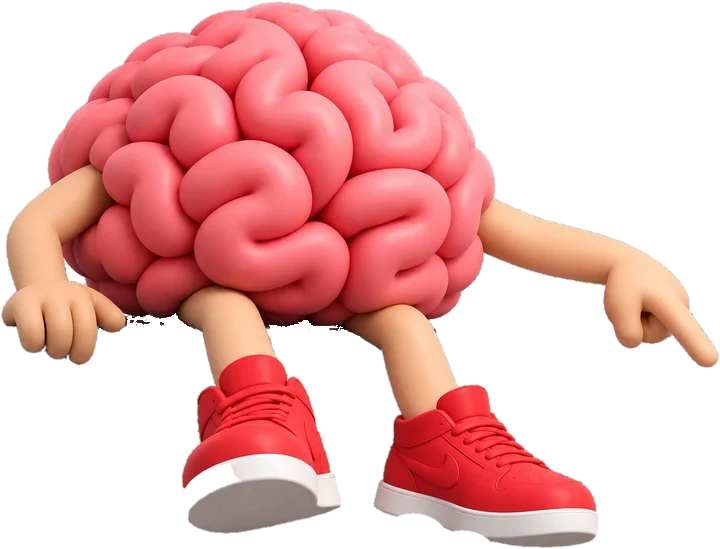
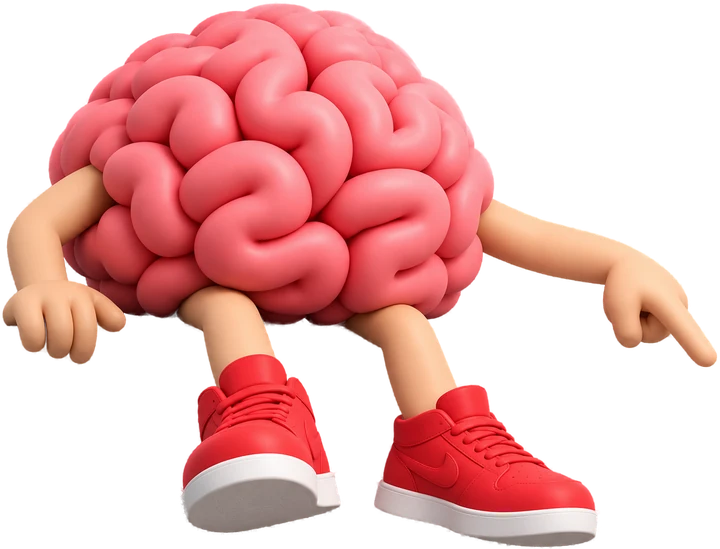
Clean AI-matted cutout of the brain mascot
Claude-Session: https://claude.ai/code/session_011twCvYJ4NH4k7nHz3phw9g

diff --git a/dist/index.html b/dist/index.html
@@ -21,7 +21,7 @@
   --gutter-r:max(16px,env(safe-area-inset-right,0px));
   color-scheme:light;
   --img-roborab-en:url(/assets/roborab-en.webp?v=687077af);
-  --img-brain:url(/assets/brain.webp?v=22f2d81e);
+  --img-brain:url(/assets/brain.webp?v=ea176af6);
   --img-c-fit:url(/assets/c-fit.webp?v=dc3616af);
   --img-c-tax:url(/assets/c-tax.webp?v=917ba79e);
   --img-c-build:url(/assets/c-build.webp?v=ac599c71);
@@ -307,7 +307,7 @@ html:not([lang=ru]) .word{aspect-ratio:1001 / 512;background-image:var(--img-rob
 
 /* ---------- контакт ---------- */
 .contact{--bw:clamp(190px,25vw,380px);position:relative;margin-top:calc(var(--S) + var(--bw) * .42);background:var(--fg);color:#fff;padding-block:calc(var(--bw) * .5 + 24px) clamp(40px,6vw,88px)}
-.brainsit{position:absolute;top:0;left:max(var(--m),6vw);width:var(--bw);aspect-ratio:720 / 549;background:var(--img-brain) center / 100% 100% no-repeat;transform:translateY(-55%);pointer-events:none;z-index:2}
+.brainsit{position:absolute;top:0;left:max(var(--m),6vw);width:var(--bw);aspect-ratio:720 / 549;background:var(--img-brain) center / 100% 100% no-repeat;transform:translateY(-60%);pointer-events:none;z-index:2}
 @media(max-width:860px){.contact{--bw:clamp(170px,48vw,300px)}.brainsit{left:max(var(--m),5vw)}}
 .contact .wrap{padding-left:max(var(--m),env(safe-area-inset-left,0px));padding-right:max(var(--m),env(safe-area-inset-right,0px))}
 .contact h2{margin:0;font:800 clamp(28px,4vw,56px)/1.05 var(--f-display);letter-spacing:-.04em;max-width:14ch}
@@ -350,12 +350,12 @@ textarea{min-height:96px;resize:vertical}
   <div class="herolang" id="herolang"></div>
   <!-- ЭКРАН 0: баннер. Отступы равны: край экрана до Р = Б до дивана = диван до края экрана -->
   <section class="hero wrap">
-    <h1 class="h1w"><span class="ht ht2" data-fit="" data-i18n="top" style=""><span class="d"><span class="ml">Implementing</span> <span class="ml">artificial</span></span><br><span class="ml">intelligence</span></span>
-    <span class="banner" style="">
+    <h1 class="h1w"><span class="ht ht2" data-fit="" data-i18n="top" style="font-size: 104.889px; line-height: 143.775px;"><span class="d"><span class="ml">Implementing</span> <span class="ml">artificial</span></span><br><span class="ml">intelligence</span></span>
+    <span class="banner" style="margin-top: 61.7393px;">
       <span class="word" role="img" aria-label="ROBORAB"></span>
       <span class="sofa" aria-hidden="true"></span>
     </span>
-    <span class="ht" data-fit="" data-i18n="bot" style=""><span class="d"><span class="ml">into business&nbsp;</span><span class="ml pr">processes</span></span></span></h1>
+    <span class="ht" data-fit="" data-i18n="bot" style="font-size: 102.787px; margin-top: 63.8105px;"><span class="d"><span class="ml">into business&nbsp;</span><span class="ml pr">processes</span></span></span></h1>
     <a class="down" href="#paths" aria-label="How we implement it, scroll down"><span>How we implement it</span><svg viewBox="0 0 24 24"><path d="m6 9 6 6 6-6"></path></svg></a>
   </section>
 

diff --git a/dist/af/index.html b/dist/af/index.html
@@ -21,7 +21,7 @@
   --gutter-r:max(16px,env(safe-area-inset-right,0px));
   color-scheme:light;
   --img-roborab-en:url(/assets/roborab-en.webp?v=687077af);
-  --img-brain:url(/assets/brain.webp?v=22f2d81e);
+  --img-brain:url(/assets/brain.webp?v=ea176af6);
   --img-c-fit:url(/assets/c-fit.webp?v=dc3616af);
   --img-c-tax:url(/assets/c-tax.webp?v=917ba79e);
   --img-c-build:url(/assets/c-build.webp?v=ac599c71);
@@ -307,7 +307,7 @@ html:not([lang=ru]) .word{aspect-ratio:1001 / 512;background-image:var(--img-rob
 
 /* ---------- контакт ---------- */
 .contact{--bw:clamp(190px,25vw,380px);position:relative;margin-top:calc(var(--S) + var(--bw) * .42);background:var(--fg);color:#fff;padding-block:calc(var(--bw) * .5 + 24px) clamp(40px,6vw,88px)}
-.brainsit{position:absolute;top:0;left:max(var(--m),6vw);width:var(--bw);aspect-ratio:720 / 549;background:var(--img-brain) center / 100% 100% no-repeat;transform:translateY(-55%);pointer-events:none;z-index:2}
+.brainsit{position:absolute;top:0;left:max(var(--m),6vw);width:var(--bw);aspect-ratio:720 / 549;background:var(--img-brain) center / 100% 100% no-repeat;transform:translateY(-60%);pointer-events:none;z-index:2}
 @media(max-width:860px){.contact{--bw:clamp(170px,48vw,300px)}.brainsit{left:max(var(--m),5vw)}}
 .contact .wrap{padding-left:max(var(--m),env(safe-area-inset-left,0px));padding-right:max(var(--m),env(safe-area-inset-right,0px))}
 .contact h2{margin:0;font:800 clamp(28px,4vw,56px)/1.05 var(--f-display);letter-spacing:-.04em;max-width:14ch}

diff --git a/dist/ar/index.html b/dist/ar/index.html
@@ -21,7 +21,7 @@
   --gutter-r:max(16px,env(safe-area-inset-right,0px));
   color-scheme:light;
   --img-roborab-en:url(/assets/roborab-en.webp?v=687077af);
-  --img-brain:url(/assets/brain.webp?v=22f2d81e);
+  --img-brain:url(/assets/brain.webp?v=ea176af6);
   --img-c-fit:url(/assets/c-fit.webp?v=dc3616af);
   --img-c-tax:url(/assets/c-tax.webp?v=917ba79e);
   --img-c-build:url(/assets/c-build.webp?v=ac599c71);
@@ -307,7 +307,7 @@ html:not([lang=ru]) .word{aspect-ratio:1001 / 512;background-image:var(--img-rob
 
 /* ---------- контакт ---------- */
 .contact{--bw:clamp(190px,25vw,380px);position:relative;margin-top:calc(var(--S) + var(--bw) * .42);background:var(--fg);color:#fff;padding-block:calc(var(--bw) * .5 + 24px) clamp(40px,6vw,88px)}
-.brainsit{position:absolute;top:0;left:max(var(--m),6vw);width:var(--bw);aspect-ratio:720 / 549;background:var(--img-brain) center / 100% 100% no-repeat;transform:translateY(-55%);pointer-events:none;z-index:2}
+.brainsit{position:absolute;top:0;left:max(var(--m),6vw);width:var(--bw);aspect-ratio:720 / 549;background:var(--img-brain) center / 100% 100% no-repeat;transform:translateY(-60%);pointer-events:none;z-index:2}
 @media(max-width:860px){.contact{--bw:clamp(170px,48vw,300px)}.brainsit{left:max(var(--m),5vw)}}
 .contact .wrap{padding-left:max(var(--m),env(safe-area-inset-left,0px));padding-right:max(var(--m),env(safe-area-inset-right,0px))}
 .contact h2{margin:0;font:800 clamp(28px,4vw,56px)/1.05 var(--f-display);letter-spacing:-.04em;max-width:14ch}

diff --git a/dist/az/index.html b/dist/az/index.html
@@ -21,7 +21,7 @@
   --gutter-r:max(16px,env(safe-area-inset-right,0px));
   color-scheme:light;
   --img-roborab-en:url(/assets/roborab-en.webp?v=687077af);
-  --img-brain:url(/assets/brain.webp?v=22f2d81e);
+  --img-brain:url(/assets/brain.webp?v=ea176af6);
   --img-c-fit:url(/assets/c-fit.webp?v=dc3616af);
   --img-c-tax:url(/assets/c-tax.webp?v=917ba79e);
   --img-c-build:url(/assets/c-build.webp?v=ac599c71);
@@ -307,7 +307,7 @@ html:not([lang=ru]) .word{aspect-ratio:1001 / 512;background-image:var(--img-rob
 
 /* ---------- контакт ---------- */
 .contact{--bw:clamp(190px,25vw,380px);position:relative;margin-top:calc(var(--S) + var(--bw) * .42);background:var(--fg);color:#fff;padding-block:calc(var(--bw) * .5 + 24px) clamp(40px,6vw,88px)}
-.brainsit{position:absolute;top:0;left:max(var(--m),6vw);width:var(--bw);aspect-ratio:720 / 549;background:var(--img-brain) center / 100% 100% no-repeat;transform:translateY(-55%);pointer-events:none;z-index:2}
+.brainsit{position:absolute;top:0;left:max(var(--m),6vw);width:var(--bw);aspect-ratio:720 / 549;background:var(--img-brain) center / 100% 100% no-repeat;transform:translateY(-60%);pointer-events:none;z-index:2}
 @media(max-width:860px){.contact{--bw:clamp(170px,48vw,300px)}.brainsit{left:max(var(--m),5vw)}}
 .contact .wrap{padding-left:max(var(--m),env(safe-area-inset-left,0px));padding-right:max(var(--m),env(safe-area-inset-right,0px))}
 .contact h2{margin:0;font:800 clamp(28px,4vw,56px)/1.05 var(--f-display);letter-spacing:-.04em;max-width:14ch}

diff --git a/dist/be/index.html b/dist/be/index.html
@@ -21,7 +21,7 @@
   --gutter-r:max(16px,env(safe-area-inset-right,0px));
   color-scheme:light;
   --img-roborab-en:url(/assets/roborab-en.webp?v=687077af);
-  --img-brain:url(/assets/brain.webp?v=22f2d81e);
+  --img-brain:url(/assets/brain.webp?v=ea176af6);
   --img-c-fit:url(/assets/c-fit.webp?v=dc3616af);
   --img-c-tax:url(/assets/c-tax.webp?v=917ba79e);
   --img-c-build:url(/assets/c-build.webp?v=ac599c71);
@@ -307,7 +307,7 @@ html:not([lang=ru]) .word{aspect-ratio:1001 / 512;background-image:var(--img-rob
 
 /* ---------- контакт ---------- */
 .contact{--bw:clamp(190px,25vw,380px);position:relative;margin-top:calc(var(--S) + var(--bw) * .42);background:var(--fg);color:#fff;padding-block:calc(var(--bw) * .5 + 24px) clamp(40px,6vw,88px)}
-.brainsit{position:absolute;top:0;left:max(var(--m),6vw);width:var(--bw);aspect-ratio:720 / 549;background:var(--img-brain) center / 100% 100% no-repeat;transform:translateY(-55%);pointer-events:none;z-index:2}
+.brainsit{position:absolute;top:0;left:max(var(--m),6vw);width:var(--bw);aspect-ratio:720 / 549;background:var(--img-brain) center / 100% 100% no-repeat;transform:translateY(-60%);pointer-events:none;z-index:2}
 @media(max-width:860px){.contact{--bw:clamp(170px,48vw,300px)}.brainsit{left:max(var(--m),5vw)}}
 .contact .wrap{padding-left:max(var(--m),env(safe-area-inset-left,0px));padding-right:max(var(--m),env(safe-area-inset-right,0px))}
 .contact h2{margin:0;font:800 clamp(28px,4vw,56px)/1.05 var(--f-display);letter-spacing:-.04em;max-width:14ch}

diff --git a/dist/bg/index.html b/dist/bg/index.html
@@ -21,7 +21,7 @@
   --gutter-r:max(16px,env(safe-area-inset-right,0px));
   color-scheme:light;
   --img-roborab-en:url(/assets/roborab-en.webp?v=687077af);
-  --img-brain:url(/assets/brain.webp?v=22f2d81e);
+  --img-brain:url(/assets/brain.webp?v=ea176af6);
   --img-c-fit:url(/assets/c-fit.webp?v=dc3616af);
   --img-c-tax:url(/assets/c-tax.webp?v=917ba79e);
   --img-c-build:url(/assets/c-build.webp?v=ac599c71);
@@ -307,7 +307,7 @@ html:not([lang=ru]) .word{aspect-ratio:1001 / 512;background-image:var(--img-rob
 
 /* ---------- контакт ---------- */
 .contact{--bw:clamp(190px,25vw,380px);position:relative;margin-top:calc(var(--S) + var(--bw) * .42);background:var(--fg);color:#fff;padding-block:calc(var(--bw) * .5 + 24px) clamp(40px,6vw,88px)}
-.brainsit{position:absolute;top:0;left:max(var(--m),6vw);width:var(--bw);aspect-ratio:720 / 549;background:var(--img-brain) center / 100% 100% no-repeat;transform:translateY(-55%);pointer-events:none;z-index:2}
+.brainsit{position:absolute;top:0;left:max(var(--m),6vw);width:var(--bw);aspect-ratio:720 / 549;background:var(--img-brain) center / 100% 100% no-repeat;transform:translateY(-60%);pointer-events:none;z-index:2}
 @media(max-width:860px){.contact{--bw:clamp(170px,48vw,300px)}.brainsit{left:max(var(--m),5vw)}}
 .contact .wrap{padding-left:max(var(--m),env(safe-area-inset-left,0px));padding-right:max(var(--m),env(safe-area-inset-right,0px))}
 .contact h2{margin:0;font:800 clamp(28px,4vw,56px)/1.05 var(--f-display);letter-spacing:-.04em;max-width:14ch}

diff --git a/dist/bn/index.html b/dist/bn/index.html
@@ -21,7 +21,7 @@
   --gutter-r:max(16px,env(safe-area-inset-right,0px));
   color-scheme:light;
   --img-roborab-en:url(/assets/roborab-en.webp?v=687077af);
-  --img-brain:url(/assets/brain.webp?v=22f2d81e);
+  --img-brain:url(/assets/brain.webp?v=ea176af6);
   --img-c-fit:url(/assets/c-fit.webp?v=dc3616af);
   --img-c-tax:url(/assets/c-tax.webp?v=917ba79e);
   --img-c-build:url(/assets/c-build.webp?v=ac599c71);
@@ -307,7 +307,7 @@ html:not([lang=ru]) .word{aspect-ratio:1001 / 512;background-image:var(--img-rob
 
 /* ---------- контакт ---------- */
 .contact{--bw:clamp(190px,25vw,380px);position:relative;margin-top:calc(var(--S) + var(--bw) * .42);background:var(--fg);color:#fff;padding-block:calc(var(--bw) * .5 + 24px) clamp(40px,6vw,88px)}
-.brainsit{position:absolute;top:0;left:max(var(--m),6vw);width:var(--bw);aspect-ratio:720 / 549;background:var(--img-brain) center / 100% 100% no-repeat;transform:translateY(-55%);pointer-events:none;z-index:2}
+.brainsit{position:absolute;top:0;left:max(var(--m),6vw);width:var(--bw);aspect-ratio:720 / 549;background:var(--img-brain) center / 100% 100% no-repeat;transform:translateY(-60%);pointer-events:none;z-index:2}
 @media(max-width:860px){.contact{--bw:clamp(170px,48vw,300px)}.brainsit{left:max(var(--m),5vw)}}
 .contact .wrap{padding-left:max(var(--m),env(safe-area-inset-left,0px));padding-right:max(var(--m),env(safe-area-inset-right,0px))}
 .contact h2{margin:0;font:800 clamp(28px,4vw,56px)/1.05 var(--f-display);letter-spacing:-.04em;max-width:14ch}

diff --git a/dist/ca/index.html b/dist/ca/index.html
@@ -21,7 +21,7 @@
   --gutter-r:max(16px,env(safe-area-inset-right,0px));
   color-scheme:light;
   --img-roborab-en:url(/assets/roborab-en.webp?v=687077af);
-  --img-brain:url(/assets/brain.webp?v=22f2d81e);
+  --img-brain:url(/assets/brain.webp?v=ea176af6);
   --img-c-fit:url(/assets/c-fit.webp?v=dc3616af);
   --img-c-tax:url(/assets/c-tax.webp?v=917ba79e);
   --img-c-build:url(/assets/c-build.webp?v=ac599c71);
@@ -307,7 +307,7 @@ html:not([lang=ru]) .word{aspect-ratio:1001 / 512;background-image:var(--img-rob
 
 /* ---------- контакт ---------- */
 .contact{--bw:clamp(190px,25vw,380px);position:relative;margin-top:calc(var(--S) + var(--bw) * .42);background:var(--fg);color:#fff;padding-block:calc(var(--bw) * .5 + 24px) clamp(40px,6vw,88px)}
-.brainsit{position:absolute;top:0;left:max(var(--m),6vw);width:var(--bw);aspect-ratio:720 / 549;background:var(--img-brain) center / 100% 100% no-repeat;transform:translateY(-55%);pointer-events:none;z-index:2}
+.brainsit{position:absolute;top:0;left:max(var(--m),6vw);width:var(--bw);aspect-ratio:720 / 549;background:var(--img-brain) center / 100% 100% no-repeat;transform:translateY(-60%);pointer-events:none;z-index:2}
 @media(max-width:860px){.contact{--bw:clamp(170px,48vw,300px)}.brainsit{left:max(var(--m),5vw)}}
 .contact .wrap{padding-left:max(var(--m),env(safe-area-inset-left,0px));padding-right:max(var(--m),env(safe-area-inset-right,0px))}
 .contact h2{margin:0;font:800 clamp(28px,4vw,56px)/1.05 var(--f-display);letter-spacing:-.04em;max-width:14ch}

diff --git a/dist/cs/index.html b/dist/cs/index.html
@@ -21,7 +21,7 @@
   --gutter-r:max(16px,env(safe-area-inset-right,0px));
   color-scheme:light;
   --img-roborab-en:url(/assets/roborab-en.webp?v=687077af);
-  --img-brain:url(/assets/brain.webp?v=22f2d81e);
+  --img-brain:url(/assets/brain.webp?v=ea176af6);
   --img-c-fit:url(/assets/c-fit.webp?v=dc3616af);
   --img-c-tax:url(/assets/c-tax.webp?v=917ba79e);
   --img-c-build:url(/assets/c-build.webp?v=ac599c71);
@@ -307,7 +307,7 @@ html:not([lang=ru]) .word{aspect-ratio:1001 / 512;background-image:var(--img-rob
 
 /* ---------- контакт ---------- */
 .contact{--bw:clamp(190px,25vw,380px);position:relative;margin-top:calc(var(--S) + var(--bw) * .42);background:var(--fg);color:#fff;padding-block:calc(var(--bw) * .5 + 24px) clamp(40px,6vw,88px)}
-.brainsit{position:absolute;top:0;left:max(var(--m),6vw);width:var(--bw);aspect-ratio:720 / 549;background:var(--img-brain) center / 100% 100% no-repeat;transform:translateY(-55%);pointer-events:none;z-index:2}
+.brainsit{position:absolute;top:0;left:max(var(--m),6vw);width:var(--bw);aspect-ratio:720 / 549;background:var(--img-brain) center / 100% 100% no-repeat;transform:translateY(-60%);pointer-events:none;z-index:2}
 @media(max-width:860px){.contact{--bw:clamp(170px,48vw,300px)}.brainsit{left:max(var(--m),5vw)}}
 .contact .wrap{padding-left:max(var(--m),env(safe-area-inset-left,0px));padding-right:max(var(--m),env(safe-area-inset-right,0px))}
 .contact h2{margin:0;font:800 clamp(28px,4vw,56px)/1.05 var(--f-display);letter-spacing:-.04em;max-width:14ch}

diff --git a/dist/da/index.html b/dist/da/index.html
@@ -21,7 +21,7 @@
   --gutter-r:max(16px,env(safe-area-inset-right,0px));
   color-scheme:light;
   --img-roborab-en:url(/assets/roborab-en.webp?v=687077af);
-  --img-brain:url(/assets/brain.webp?v=22f2d81e);
+  --img-brain:url(/assets/brain.webp?v=ea176af6);
   --img-c-fit:url(/assets/c-fit.webp?v=dc3616af);
   --img-c-tax:url(/assets/c-tax.webp?v=917ba79e);
   --img-c-build:url(/assets/c-build.webp?v=ac599c71);
@@ -307,7 +307,7 @@ html:not([lang=ru]) .word{aspect-ratio:1001 / 512;background-image:var(--img-rob
 
 /* ---------- контакт ---------- */
 .contact{--bw:clamp(190px,25vw,380px);position:relative;margin-top:calc(var(--S) + var(--bw) * .42);background:var(--fg);color:#fff;padding-block:calc(var(--bw) * .5 + 24px) clamp(40px,6vw,88px)}
-.brainsit{position:absolute;top:0;left:max(var(--m),6vw);width:var(--bw);aspect-ratio:720 / 549;background:var(--img-brain) center / 100% 100% no-repeat;transform:translateY(-55%);pointer-events:none;z-index:2}
+.brainsit{position:absolute;top:0;left:max(var(--m),6vw);width:var(--bw);aspect-ratio:720 / 549;background:var(--img-brain) center / 100% 100% no-repeat;transform:translateY(-60%);pointer-events:none;z-index:2}
 @media(max-width:860px){.contact{--bw:clamp(170px,48vw,300px)}.brainsit{left:max(var(--m),5vw)}}
 .contact .wrap{padding-left:max(var(--m),env(safe-area-inset-left,0px));padding-right:max(var(--m),env(safe-area-inset-right,0px))}
 .contact h2{margin:0;font:800 clamp(28px,4vw,56px)/1.05 var(--f-display);letter-spacing:-.04em;max-width:14ch}

diff --git a/dist/de/index.html b/dist/de/index.html
@@ -21,7 +21,7 @@
   --gutter-r:max(16px,env(safe-area-inset-right,0px));
   color-scheme:light;
   --img-roborab-en:url(/assets/roborab-en.webp?v=687077af);
-  --img-brain:url(/assets/brain.webp?v=22f2d81e);
+  --img-brain:url(/assets/brain.webp?v=ea176af6);
   --img-c-fit:url(/assets/c-fit.webp?v=dc3616af);
   --img-c-tax:url(/assets/c-tax.webp?v=917ba79e);
   --img-c-build:url(/assets/c-build.webp?v=ac599c71);
@@ -307,7 +307,7 @@ html:not([lang=ru]) .word{aspect-ratio:1001 / 512;background-image:var(--img-rob
 
 /* ---------- контакт ---------- */
 .contact{--bw:clamp(190px,25vw,380px);position:relative;margin-top:calc(var(--S) + var(--bw) * .42);background:var(--fg);color:#fff;padding-block:calc(var(--bw) * .5 + 24px) clamp(40px,6vw,88px)}
-.brainsit{position:absolute;top:0;left:max(var(--m),6vw);width:var(--bw);aspect-ratio:720 / 549;background:var(--img-brain) center / 100% 100% no-repeat;transform:translateY(-55%);pointer-events:none;z-index:2}
+.brainsit{position:absolute;top:0;left:max(var(--m),6vw);width:var(--bw);aspect-ratio:720 / 549;background:var(--img-brain) center / 100% 100% no-repeat;transform:translateY(-60%);pointer-events:none;z-index:2}
 @media(max-width:860px){.contact{--bw:clamp(170px,48vw,300px)}.brainsit{left:max(var(--m),5vw)}}
 .contact .wrap{padding-left:max(var(--m),env(safe-area-inset-left,0px));padding-right:max(var(--m),env(safe-area-inset-right,0px))}
 .contact h2{margin:0;font:800 clamp(28px,4vw,56px)/1.05 var(--f-display);letter-spacing:-.04em;max-width:14ch}

diff --git a/dist/el/index.html b/dist/el/index.html
@@ -21,7 +21,7 @@
   --gutter-r:max(16px,env(safe-area-inset-right,0px));
   color-scheme:light;
   --img-roborab-en:url(/assets/roborab-en.webp?v=687077af);
-  --img-brain:url(/assets/brain.webp?v=22f2d81e);
+  --img-brain:url(/assets/brain.webp?v=ea176af6);
   --img-c-fit:url(/assets/c-fit.webp?v=dc3616af);
   --img-c-tax:url(/assets/c-tax.webp?v=917ba79e);
   --img-c-build:url(/assets/c-build.webp?v=ac599c71);
@@ -307,7 +307,7 @@ html:not([lang=ru]) .word{aspect-ratio:1001 / 512;background-image:var(--img-rob
 
 /* ---------- контакт ---------- */
 .contact{--bw:clamp(190px,25vw,380px);position:relative;margin-top:calc(var(--S) + var(--bw) * .42);background:var(--fg);color:#fff;padding-block:calc(var(--bw) * .5 + 24px) clamp(40px,6vw,88px)}
-.brainsit{position:absolute;top:0;left:max(var(--m),6vw);width:var(--bw);aspect-ratio:720 / 549;background:var(--img-brain) center / 100% 100% no-repeat;transform:translateY(-55%);pointer-events:none;z-index:2}
+.brainsit{position:absolute;top:0;left:max(var(--m),6vw);width:var(--bw);aspect-ratio:720 / 549;background:var(--img-brain) center / 100% 100% no-repeat;transform:translateY(-60%);pointer-events:none;z-index:2}
 @media(max-width:860px){.contact{--bw:clamp(170px,48vw,300px)}.brainsit{left:max(var(--m),5vw)}}
 .contact .wrap{padding-left:max(var(--m),env(safe-area-inset-left,0px));padding-right:max(var(--m),env(safe-area-inset-right,0px))}
 .contact h2{margin:0;font:800 clamp(28px,4vw,56px)/1.05 var(--f-display);letter-spacing:-.04em;max-width:14ch}
